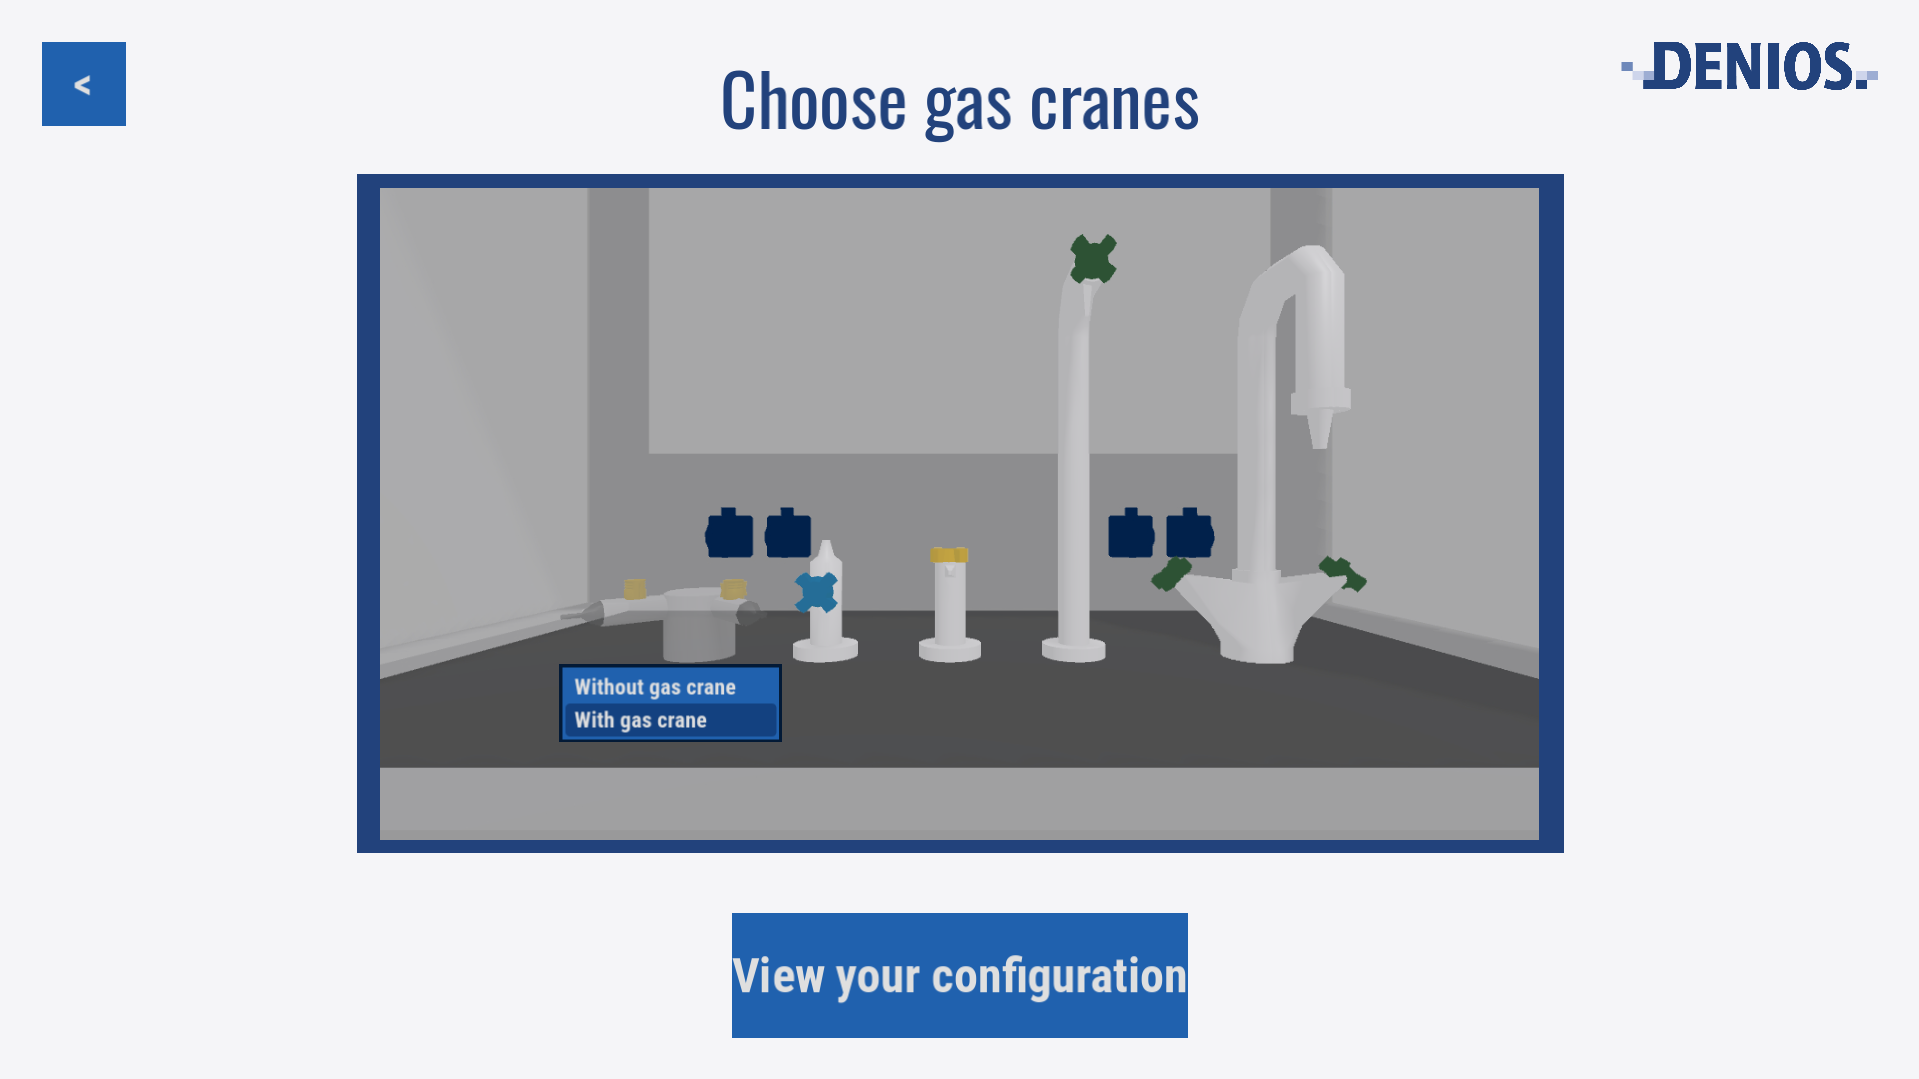
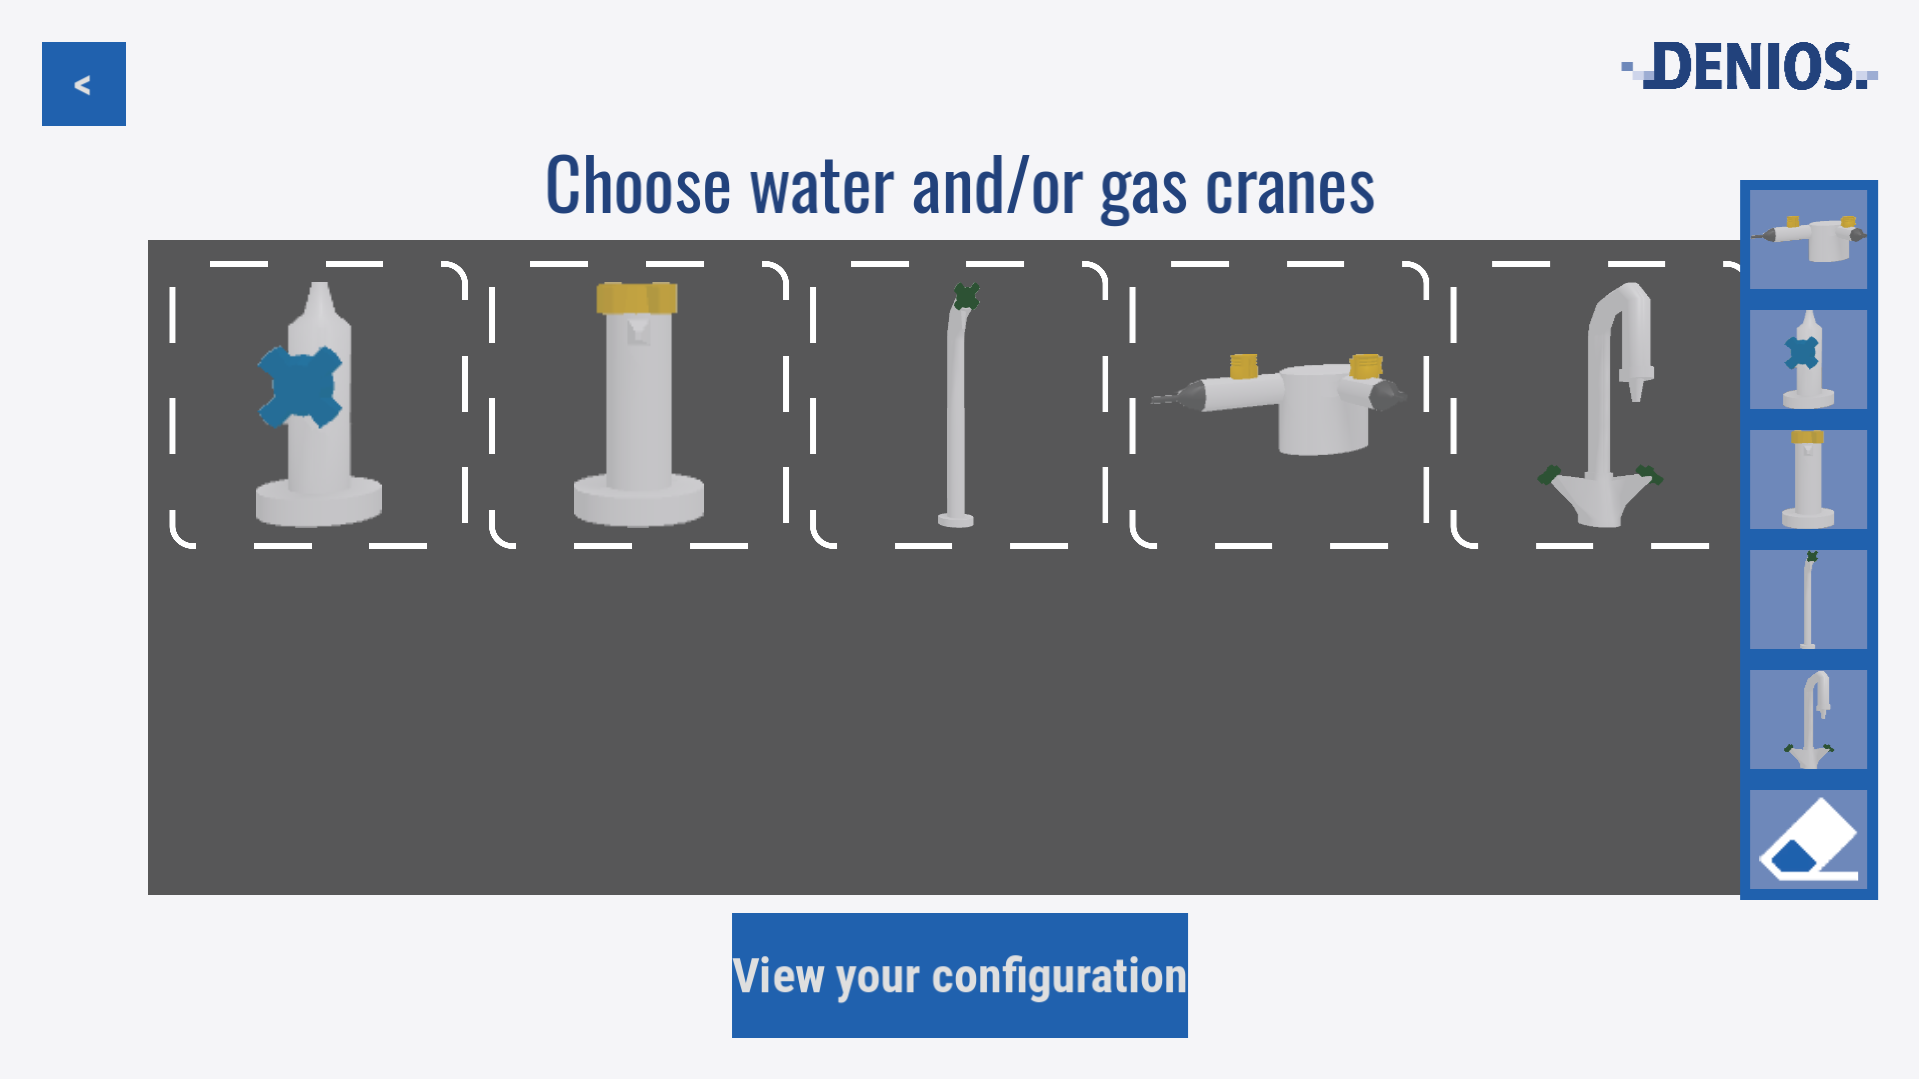
updated denios pc screenshots

diff --git a/src/app/projects/all-projects.ts b/src/app/projects/all-projects.ts
@@ -4262,7 +4262,7 @@ if moving == 0 and PlayerObject.day == true
   technologies: ["/images/godot logo.svg", "/images/gdscript logo.webp", "/images/html logo.png"],
   
   media: [
-    { type: "image", src: "/images/denios model viewer.png" },
+    { type: "image", src: "/images/denios model viewer.jpg" },
     { type: "image", src: "/images/denios welcome.png" },
     { type: "image", src: "/images/denios cranes.png" },
     { type: "image", src: "/images/denios ar horizontal.jpg" },